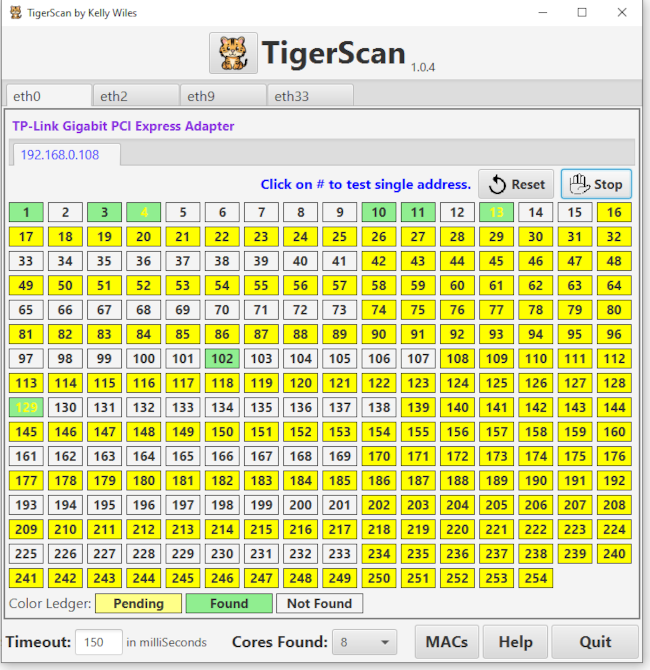
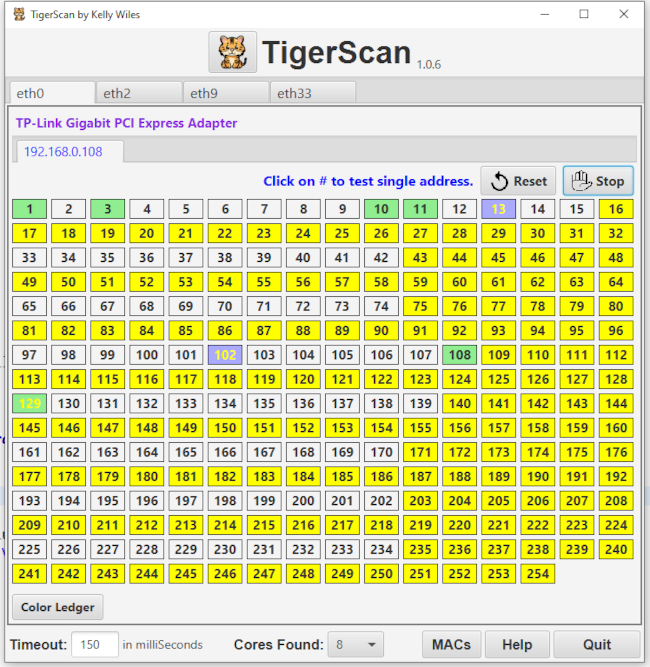
Added MAC id list and moved legder to its own window.

diff --git a/src/application/TigerScanController.java b/src/application/TigerScanController.java
@@ -316,32 +316,44 @@ public class TigerScanController implements Initializable, RefreshScene {
     		
     		VBox.setVgrow(hb3, Priority.ALWAYS);
     		
-    		Label lblLedger = new Label("Color Ledger:");
-    		lblLedger.setStyle("-fx-font-size: 16px;");
+    		Button btnLedger = new Button("Color Ledger");
+    		btnLedger.setStyle("-fx-font-size: 14px; -fx-font-weight: bold;");
+    		btnLedger.setOnAction(e -> {
+    			tg.centerScene(aPane, "Ledger.fxml", "TigerScan Color Ledger", null);
+        	});
+//    		Label lblLedger = new Label("Color Ledger:");
+//    		lblLedger.setStyle("-fx-font-size: 16px;");
     		
-    		Label lblPending = new Label("Pending");
-    		lblPending.setPrefWidth(100.0);
-    		lblPending.setAlignment(Pos.CENTER);
-    		lblPending.setStyle("-fx-font-size: 15px; -fx-font-weight: bold; -fx-background-color: #ffff88; -fx-border-color: black;");
-    		Tooltip tipPending = new Tooltip("Address has not been scanned yet.");
-    		tipPending.setStyle("-fx-font-size: 16px;");
-    		lblPending.setTooltip(tipPending);
-    		Label lblScanned = new Label("Found");
-    		lblScanned.setPrefWidth(100.0);
-    		lblScanned.setAlignment(Pos.CENTER);
-    		lblScanned.setStyle("-fx-font-size: 15px; -fx-font-weight: bold; -fx-background-color: lightgreen; -fx-border-color: black;");
-    		Tooltip tipScanned = new Tooltip("Address has been scanned and was found.");
-    		tipScanned.setStyle("-fx-font-size: 16px;");
-    		lblScanned.setTooltip(tipScanned);
-    		Label lblFound   = new Label("Not Found");
-    		lblFound.setPrefWidth(100.0);
-    		lblFound.setAlignment(Pos.CENTER);
-    		lblFound.setStyle("-fx-font-size: 15px; -fx-font-weight: bold; -fx-border-color: black;");
-    		Tooltip tipNotFound = new Tooltip("Address has been scanned but did NOT responded.");
-    		tipNotFound.setStyle("-fx-font-size: 16px;");
-    		lblFound.setTooltip(tipNotFound);
+//    		Label lblPending = new Label("Pending");
+//    		lblPending.setPrefWidth(100.0);
+//    		lblPending.setAlignment(Pos.CENTER);
+//    		lblPending.setStyle("-fx-font-size: 15px; -fx-font-weight: bold; -fx-background-color: #ffff88; -fx-border-color: black;");
+//    		Tooltip tipPending = new Tooltip("Address has not been scanned yet.");
+//    		tipPending.setStyle("-fx-font-size: 16px;");
+//    		lblPending.setTooltip(tipPending);
+//    		Label lblScanned = new Label("Found");
+//    		lblScanned.setPrefWidth(100.0);
+//    		lblScanned.setAlignment(Pos.CENTER);
+//    		lblScanned.setStyle("-fx-font-size: 15px; -fx-font-weight: bold; -fx-background-color: lightgreen; -fx-border-color: black;");
+//    		Tooltip tipScanned = new Tooltip("Address has been scanned and was found.");
+//    		tipScanned.setStyle("-fx-font-size: 16px;");
+//    		lblScanned.setTooltip(tipScanned);
+//    		Label lblInfo = new Label("Found");
+//    		lblInfo.setPrefWidth(100.0);
+//    		lblInfo.setAlignment(Pos.CENTER);
+//    		lblInfo.setStyle("-fx-font-size: 15px; -fx-font-weight: bold; -fx-background-color: #aaaaff; -fx-border-color: black; -fx-text-fill: yellow;");
+//    		Tooltip tipInfo = new Tooltip("Address has been scanned and was found, plus has info.");
+//    		tipScanned.setStyle("-fx-font-size: 16px;");
+//    		lblScanned.setTooltip(tipInfo);
+//    		Label lblNotFound   = new Label("Not Found");
+//    		lblNotFound.setPrefWidth(100.0);
+//    		lblNotFound.setAlignment(Pos.CENTER);
+//    		lblNotFound.setStyle("-fx-font-size: 15px; -fx-font-weight: bold; -fx-border-color: black;");
+//    		Tooltip tipNotFound = new Tooltip("Address has been scanned but did NOT responded.");
+//    		tipNotFound.setStyle("-fx-font-size: 16px;");
+//    		lblNotFound.setTooltip(tipNotFound);
     		
-    		hb4.getChildren().addAll(lblLedger, lblPending, lblScanned, lblFound);
+    		hb4.getChildren().addAll(btnLedger);
     		
     		hb4.setSpacing(4.0);
     		hb4.setAlignment(Pos.CENTER_LEFT);
@@ -387,23 +399,38 @@ public class TigerScanController implements Initializable, RefreshScene {
 				InetAddress inet = InetAddress.getByName(addr);
 				if (inet.isReachable(timeout) == true) {
 					String vendor = null;
+					String name = null;
+					String ttStr = null;
 					try {
 						String mac = tg.macLookup.getMacAddrHost(addr).replaceAll("-", ":");
-						vendor = tg.macs.get(mac.substring(0, 8));
+						vendor = tg.vendors.get(mac.substring(0, 8));
+						name = tg.macs.get(mac);
 						
-//						System.out.println("mac = " + mac.substring(0, 8));
+						if (name != null)
+							ttStr = "Name: " + name;
+						if (vendor != null) {
+							if (ttStr == null)
+								ttStr = "Vendor: " + vendor;
+							else
+								ttStr += "\nVendor: " + vendor;
+						}
+						
+//						System.out.println("Name = " + name);
 //						System.out.println("Vendor = " + vendor);
 					} catch (InterruptedException e) {
 						e.printStackTrace();
 					}
 					
-					if (vendor != null) {
-						lbl.setStyle("-fx-font-size: 15px; -fx-font-weight: bold; -fx-background-color: lightgreen; -fx-border-color: black; -fx-text-fill: yellow;");
+					if (ttStr != null) {
+						if (name != null)
+							lbl.setStyle("-fx-font-size: 15px; -fx-font-weight: bold; -fx-background-color: #aaaaff; -fx-border-color: black; -fx-text-fill: yellow;");
+						else
+							lbl.setStyle("-fx-font-size: 15px; -fx-font-weight: bold; -fx-background-color: lightgreen; -fx-border-color: black; -fx-text-fill: yellow;");
 						if (lbl.getTooltip() == null) {
-							Tooltip tt = new Tooltip(vendor);
+							Tooltip tt = new Tooltip(ttStr);
 							lbl.setTooltip(tt);
 						} else {
-							lbl.getTooltip().setText(vendor);
+							lbl.getTooltip().setText(ttStr);
 						}
 					} else {
 						lbl.setStyle("-fx-font-size: 15px; -fx-font-weight: bold; -fx-background-color: lightgreen; -fx-border-color: black;");

diff --git a/src/application/TsGlobal.java b/src/application/TsGlobal.java
@@ -38,7 +38,7 @@ private static TsGlobal singleton = null;
 	}
 	
 	private void initGlobals() {
-		appVersion = "1.0.5";
+		appVersion = "1.0.6";
 		
 		String os = System.getProperty("os.name").toLowerCase();
 		if (os.contains("win") == true) {
@@ -56,12 +56,12 @@ private static TsGlobal singleton = null;
 		if (base.exists() == false)
 			base.mkdirs();
 		
-		macFile = new File(base.getAbsolutePath() + File.separator + "macs.txt");
-		if (macFile.exists() == false) {
+		vendorFile = new File(base.getAbsolutePath() + File.separator + "vendors.txt");
+		if (vendorFile.exists() == false) {
 			try {
-				macFile.createNewFile();
+				vendorFile.createNewFile();
 				
-				FileWriter w = new FileWriter(macFile.getAbsolutePath());
+				FileWriter w = new FileWriter(vendorFile.getAbsolutePath());
 				w.write("# Known MAC vendor IDs. Format 00:00:00,Vendor name\n");
 				w.write("B8:27:EB,Raspberry Pi Foundation\n");
 				w.write("DC:A6:32,Raspberry Pi Trading Ltd\n");
@@ -69,6 +69,25 @@ private static TsGlobal singleton = null;
 				w.write("E4:5F:01,Raspberry Pi Trading Ltd\n");
 				w.write("28:CD:C1,Raspberry Pi Trading Ltd\n");
 				w.write("D8:3A:DD,Raspberry Pi Trading Ltd\n");
+				
+				w.close();
+			} catch (IOException e) {
+				e.printStackTrace();
+			}
+		}
+		
+		vendors = new HashMap<String, String>();
+		
+		loadVendors();
+		
+		macFile = new File(base.getAbsolutePath() + File.separator + "macs.txt");
+		if (macFile.exists() == false) {
+			try {
+				macFile.createNewFile();
+				
+				FileWriter w = new FileWriter(macFile.getAbsolutePath());
+				w.write("# Known MACs. Format 00:00:00:00:00:00,name\n");
+				w.write("d8:9e:f3:14:e2:ff,DPDK\n");
 				
 				w.close();
 			} catch (IOException e) {
@@ -100,6 +119,7 @@ private static TsGlobal singleton = null;
 	public Map<String, ScanThread> scans = null;
 	
 	public Map<String, String> macs = null;
+	public Map<String, String> vendors = null;
 	
 	public MacLookup macLookup = null;
 	
@@ -109,6 +129,7 @@ private static TsGlobal singleton = null;
     
     public int osType;
     
+    public File vendorFile = null;
     public File macFile = null;
 	
 	Alert alert = null;
@@ -143,6 +164,31 @@ private static TsGlobal singleton = null;
 		if (sceneNav.loadScene(fxml) == true) {
 			guiRestart(fxml);
 		}
+	}
+	
+	public void loadVendors() {
+		
+		try {
+			List<String> allLines = Files.readAllLines(Paths.get(vendorFile.getAbsolutePath()));
+
+			for (String line : allLines) {
+				line = line.trim();
+				if (line.length() <= 0)
+					continue;
+				if (line.charAt(0) == '#')
+					continue;
+				
+				String[] arr = line.split(",");
+				if (arr.length >= 2)
+					vendors.put(arr[0].toLowerCase(), arr[1]);
+			}
+		} catch (IOException e) {
+			e.printStackTrace();
+		}
+		
+//		for (String key : macs.keySet()) {
+//			System.out.println(key + ", " + macs.get(key));
+//		}
 	}
 	
 	public void loadMacs() {

diff --git a/src/application/EditMacsController.java b/src/application/EditMacsController.java
@@ -28,10 +28,14 @@ public class EditMacsController implements Initializable, RefreshScene {
     private Button btnSave;
 
     @FXML
-    private TextArea taScript;
+    private TextArea taVendors;
+    
+    @FXML
+    private TextArea taMacs;
     
 //    private JpGlobal tg = JpGlobal.getInstance();
     private File macFile = null;
+    private File vendorFile = null;
 
     @FXML
     void doBtnCancel(ActionEvent event) {
@@ -43,9 +47,17 @@ public class EditMacsController implements Initializable, RefreshScene {
     void doBtnSave(ActionEvent event) {
     	
 		try {
+			FileWriter w = new FileWriter(vendorFile.getAbsolutePath(), false);
+			
+			w.write(taVendors.getText());
+			w.close();
+		} catch (IOException e) {
+			e.printStackTrace();
+		}
+		try {
 			FileWriter w = new FileWriter(macFile.getAbsolutePath(), false);
 			
-			w.write(taScript.getText());
+			w.write(taMacs.getText());
 			w.close();
 		} catch (IOException e) {
 			e.printStackTrace();
@@ -57,6 +69,24 @@ public class EditMacsController implements Initializable, RefreshScene {
     @Override
 	public void initialize(URL arg0, ResourceBundle arg1) {
     	
+    	vendorFile = new File(System.getProperty("user.home") + File.separator + "TigerScan" + File.separator + "vendors.txt");
+    	
+    	if (vendorFile.exists() == true) {
+	    	try {
+				FileInputStream fis = new FileInputStream(vendorFile);
+				byte[] data = new byte[(int) vendorFile.length()];
+		    	fis.read(data);
+		    	fis.close();
+		    	String str = new String(data, "UTF-8");
+		    	
+		    	taVendors.setText(str);
+			} catch (FileNotFoundException e) {
+				e.printStackTrace();
+			} catch (IOException e) {
+				e.printStackTrace();
+			}
+    	}
+    	
     	macFile = new File(System.getProperty("user.home") + File.separator + "TigerScan" + File.separator + "macs.txt");
     	
     	if (macFile.exists() == true) {
@@ -67,7 +97,7 @@ public class EditMacsController implements Initializable, RefreshScene {
 		    	fis.close();
 		    	String str = new String(data, "UTF-8");
 		    	
-		    	taScript.setText(str);
+		    	taMacs.setText(str);
 			} catch (FileNotFoundException e) {
 				e.printStackTrace();
 			} catch (IOException e) {

diff --git a/src/application/ScanThread.java b/src/application/ScanThread.java
@@ -54,11 +54,24 @@ public class ScanThread extends Thread {
 				boolean status = inet.isReachable(timeout);
 				
 				String vendor = null;
+				String name = null;
+				String ttStr = null;
 				try {
 					String mac = tg.macLookup.getMacAddrHost(addr);
 					if (mac != null) {
 						mac = mac.replaceAll("-", ":");
-						vendor = tg.macs.get(mac.substring(0, 8));
+						vendor = tg.vendors.get(mac.substring(0, 8));
+						name = tg.macs.get(mac);
+					}
+					
+					if (name != null)
+						ttStr = "Name: " + name;
+					
+					if (vendor != null) {
+						if (ttStr == null)
+							ttStr = "Vendor: " + vendor;
+						else
+							ttStr += "\nVendor: " + vendor;
 					}
 					
 //					System.out.println("mac = " + mac.substring(0, 8));
@@ -67,14 +80,17 @@ public class ScanThread extends Thread {
 					e.printStackTrace();
 				}
 				
-				final String ven = vendor;
+				final String ven = ttStr;
 
 				Platform.runLater(new Runnable() {
                     @Override
 					public void run() {
                 		if (status == true) {
                 			if (ven != null) {
-            					lbl.setStyle("-fx-font-size: 15px; -fx-font-weight: bold; -fx-background-color: lightgreen; -fx-border-color: black; -fx-text-fill: yellow;");
+                				if (ven.startsWith("Name:") == true)
+                					lbl.setStyle("-fx-font-size: 15px; -fx-font-weight: bold; -fx-background-color: #aaaaff; -fx-border-color: black; -fx-text-fill: yellow;");
+                				else
+                					lbl.setStyle("-fx-font-size: 15px; -fx-font-weight: bold; -fx-background-color: lightgreen; -fx-border-color: black; -fx-text-fill: yellow;");
             					if (lbl.getTooltip() == null) {
             						Tooltip tt = new Tooltip(ven);
             						lbl.setTooltip(tt);

diff --git a/src/application/LedgerController.java b/src/application/LedgerController.java
@@ -1,0 +1,22 @@
+package application;
+
+import javafx.event.ActionEvent;
+import javafx.fxml.FXML;
+import javafx.scene.control.Button;
+import javafx.scene.layout.AnchorPane;
+import javafx.stage.Stage;
+
+public class LedgerController {
+
+    @FXML
+    private AnchorPane aPane;
+
+    @FXML
+    private Button btnClose;
+
+    @FXML
+    void doBtnClose(ActionEvent event) {
+    	Stage stage = (Stage)aPane.getScene().getWindow();
+    	stage.close();
+    }
+}
